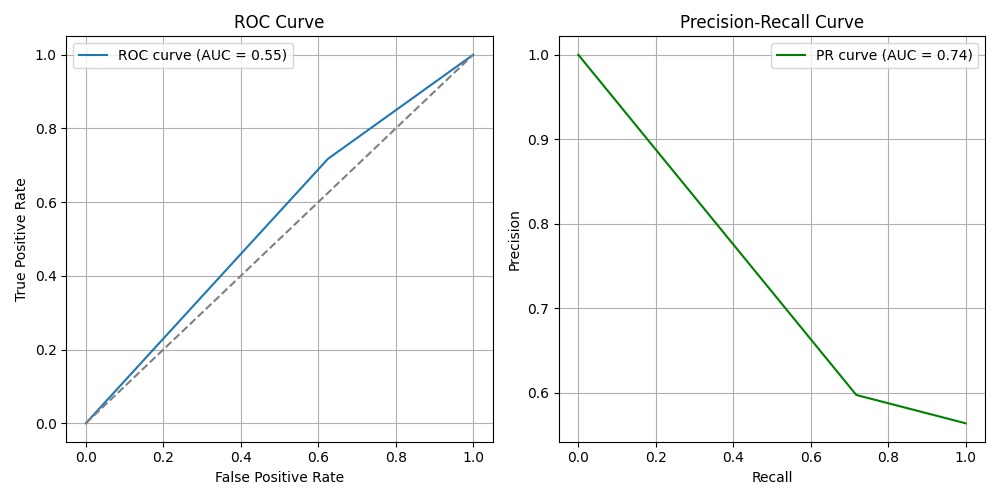
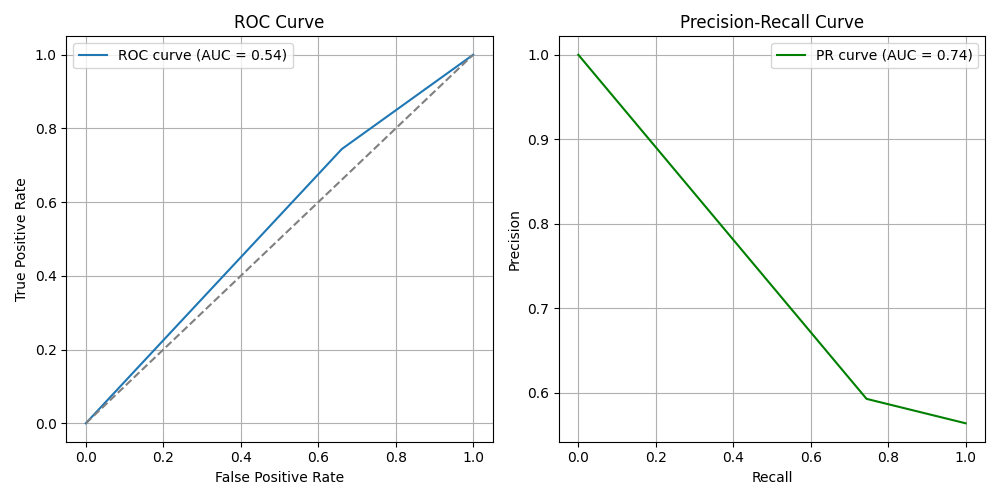
mhm

diff --git a/random_forest_classifier.py b/random_forest_classifier.py
@@ -12,7 +12,7 @@ from pathlib import Path
 from utils import *
 
 def random_forest_classify(m_train, m_test):
-    FEATURES = ['year','popularity','runtime','revenue']
+    FEATURES = ['year','popularity']
     train_data = m_train
     X = train_data[FEATURES]
     y = train_data["bechdel_pass"]
